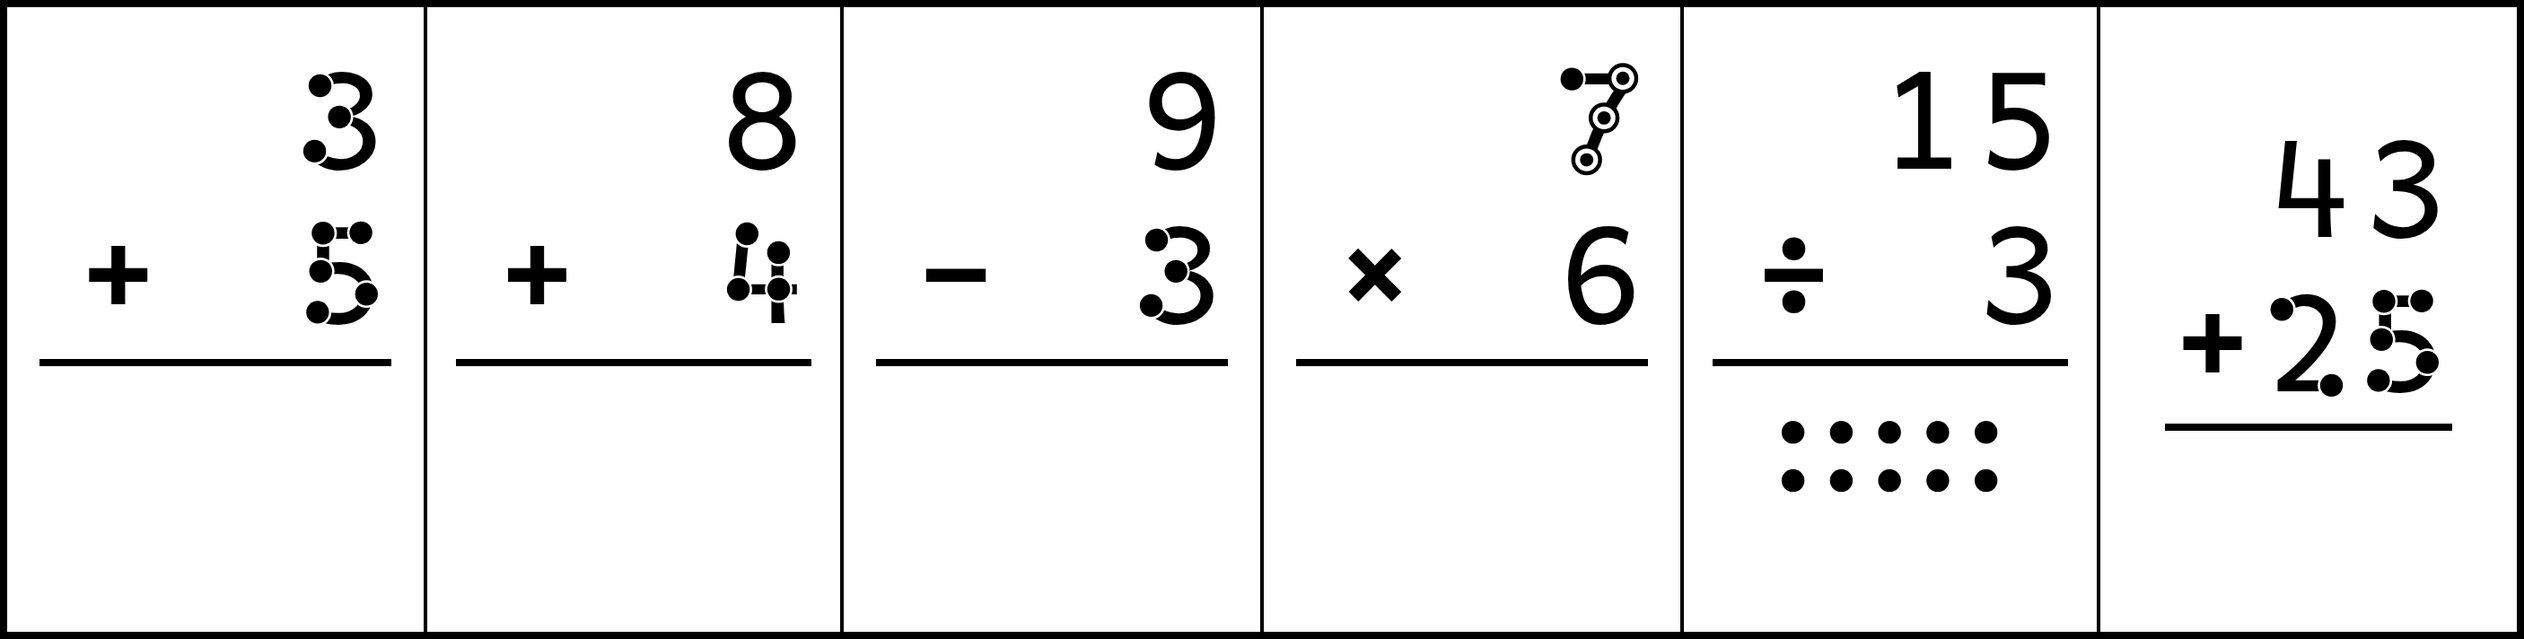
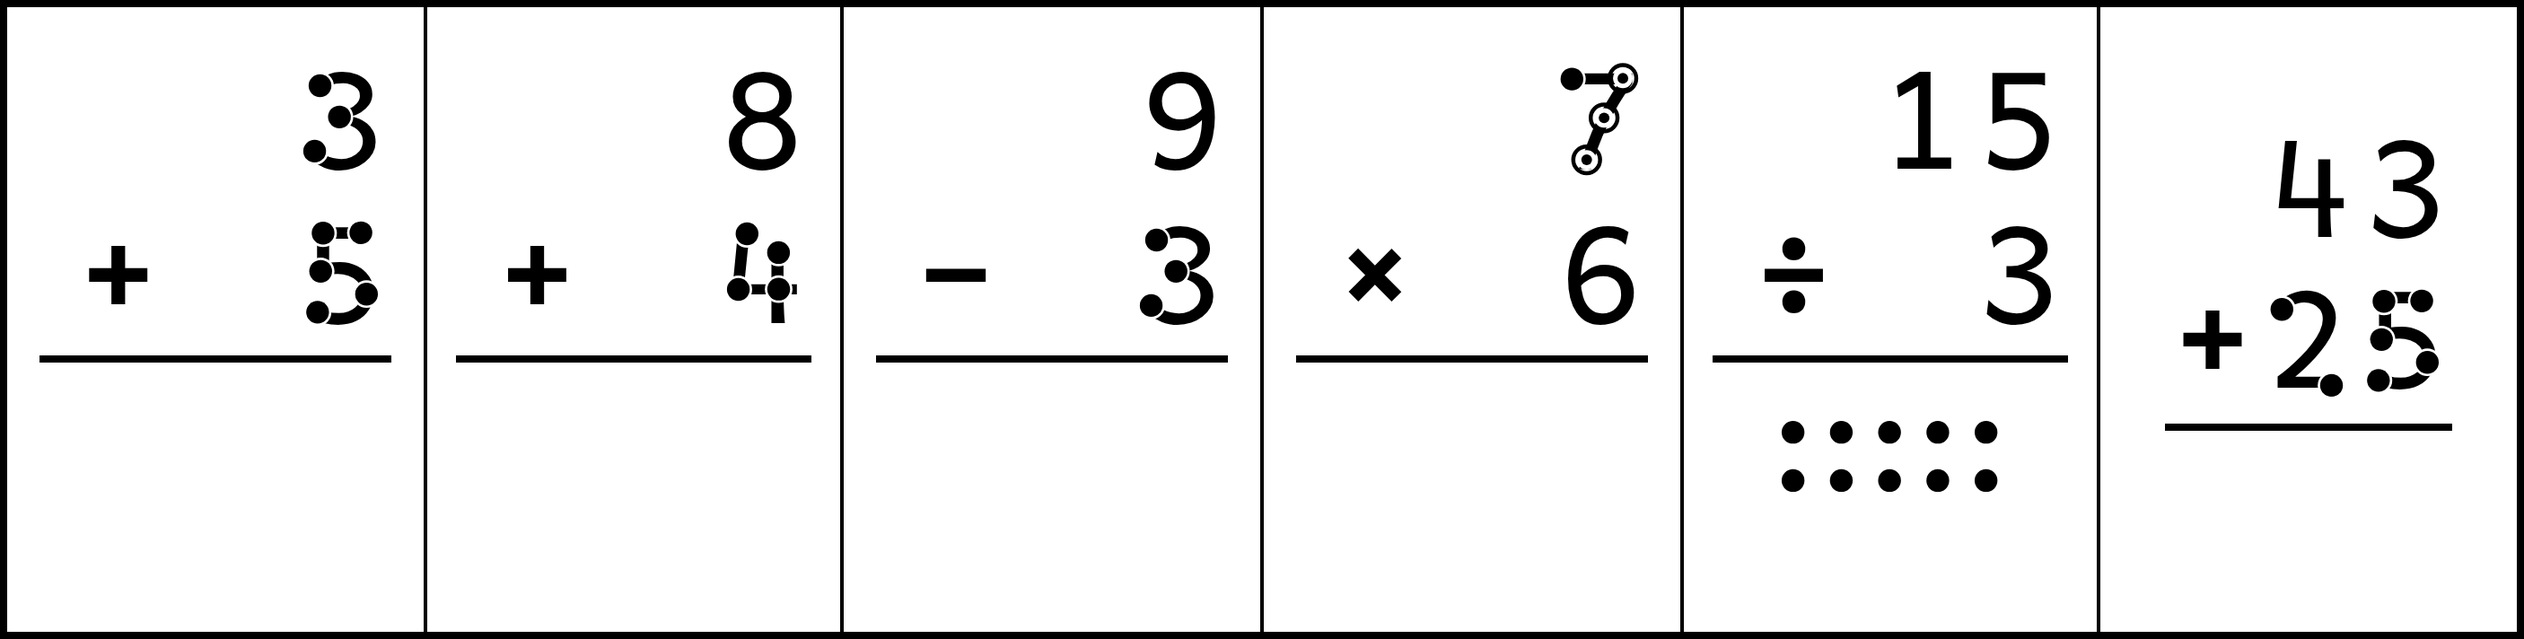
S1 touch dots: apply owner approval rulings (open rings, keyline kept, force L)
- touchdots.js: ring default 'open' (stroke shows through); centre dot gets its own keyline
  (>= 0.26 mm floor, stops 0.012 em short of the ring line); M centre dot 0.10 -> 0.08 em so
  the open ring meets the photocopy floors; minimum-size notes now say force L, not the tile.
- ws-touchdots gate: new PHOTOCOPY (no blob) check for every double, both weights, 24/28 pt;
  integer screenshot clips so device pixels map exactly to em.
- specimen: open rings as the ruling, M row shows the 22 pt stack switched to L; PNGs re-rendered.
- SUPPORTS.md S1: approval rulings 9-11, allocator force-L rule, About-page line text.

Claude-Session: https://claude.ai/code/session_01BnHmN8pgHKrPp3MQGgWUWY

diff --git a/design/specimens/touch-dots.html b/design/specimens/touch-dots.html
@@ -45,7 +45,7 @@
   </filter>
 </svg>
 
-<h1>Touch dots · S1 specimen (for owner approval)</h1>
+<h1>Touch dots · S1 specimen (approved 2026-09-25, with the owner's rulings applied)</h1>
 <p class="note">MathQuest's own counting dots, fitted to the default Andika digits with the open 4 (cv04) and nothing else (TY-4).
 1 to 5 carry single dots. 6 to 9 carry double dots: a solid dot inside an open ring, touched and counted twice, doubles first. 0 has none.
 The teacher's word is <b>Touch dots</b> (default) or <b>Count dots</b>. Positions are measured in the browser (<code>ws-touchdots-fit</code>)
@@ -59,14 +59,15 @@ and held on the strokes by the gate (<code>ws-touchdots</code>). Nothing here is
 Three sizes, each with and without a thin white keyline. The second line of each panel is the same digits through a simulated poor photocopy
 (toner spread about 0.12 mm, darkened): a double must still show its white gap and its centre dot.</p>
 <div class="variants" id="variants"></div>
-<p class="note" style="margin-top:12px">Doubles: a <b>knocked-out</b> ring filled white (proposed: the gap and the centre dot read cleanly, and still do after a copy) against an
-<b>open</b> ring drawn over the stroke (the numeral stays a little more whole, but after a copy the stroke fills the gap and a double reads as one blob). 28 pt, size M; second line = simulated photocopy.</p>
+<p class="note" style="margin-top:12px">Doubles. <b>Owner ruling: open rings</b>, drawn over the stroke so the numeral's stroke runs into the ring and a 7 or 9 stays whole.
+The centre dot has its own white keyline (at least 0.26 mm) and the gap keeps the photocopy floor, so after a copy the double is still a ring round a dot, not a blob
+(gate: <code>ws-touchdots</code> PHOTOCOPY). The knocked-out ring (filled white) is shown for comparison. 28 pt, size M; second line = simulated photocopy.</p>
 <div class="variants" id="rings" style="grid-template-columns:repeat(2,1fr)"></div>
 
 <h2>3 · In real fact cells (kit <code>fact()</code> and <code>stack()</code>, black and white)</h2>
 <p class="note">Cell sizes follow the kit's fact ladder: <b>L</b> = 5 columns, 28 pt; <b>M</b> = 6 columns, 24 pt; <b>S</b> = 10 columns, 16 pt.
-Touch dots need 24 pt or more on paper, so the <b>S</b> row falls back to the existing cue (dot tile for + and −, skip strip for × and ÷). Column stacks print at the
-preset's digit size (L 28 pt, M 22 pt), so a stack with touch dots needs L.</p>
+Touch dots need 24 pt or more on paper. <b>Owner ruling:</b> when touch dots are on and an item's digits would fall under 24 pt, that item <b>switches to size L</b>
+(never the dot tile). So at M the column stack (22 pt) prints at L's 28 pt, as shown; at S every touch-dot item prints at L.</p>
 <div id="facts"></div>
 
 <h2>4 · On screen: practice card at 1280 px and 390 px</h2>
@@ -85,7 +86,7 @@ Keyboard: Tab to a number, Space counts the next dot in order. Below, at 390 px:
 <script type="module">
 import {
   touchDotsSVG, touchTallySVG, TOUCH_DOT_SIZES, TOUCH_DOT_DEFAULT, touchDotsFits,
-  fact, stack, factCue,
+  fact, stack,
 } from '../../js/modules/sheet/index.js';
 
 const PX_PT = 0.75;
@@ -135,10 +136,10 @@ function dotSpan(span, o = {}) {
 // 2b · open vs knocked-out rings
 {
   const host = document.getElementById('rings');
-  for (const ring of ['knockout', 'open']) {
+  for (const ring of ['open', 'knockout']) {
     const v = document.createElement('div');
     v.className = 'variant';
-    v.innerHTML = `<h3>${ring === 'open' ? 'Open ring over the stroke' : 'Knocked-out ring, filled white (proposed)'}</h3>`
+    v.innerHTML = `<h3>${ring === 'open' ? 'Open ring over the stroke (owner ruling)' : 'Knocked-out ring, filled white (not used)'}</h3>`
       + `<div class="digits" style="font-size:28pt">${[...'6789'].map((c) => `<span>${c}</span>`).join('')}</div>`
       + `<div class="digits pc" style="font-size:28pt">${[...'6789'].map((c) => `<span>${c}</span>`).join('')}</div>`;
     host.appendChild(v);
@@ -157,22 +158,22 @@ function dotSpan(span, o = {}) {
     { a: 15, b: 3, op: '÷', dots: 'tally', cap: 'Count by 3 on the row: 3, 6, 9, 12, 15. Count the dots you touched.' },
     { a: 43, b: 25, op: '+', dots: 'stack', cap: 'Column by column: ones first, touch the dots on 5, then on 2.' },
   ];
-  const FALLBACK = { '+': 'tile', '−': 'tile', '×': 'skip', '÷': 'skip' };
-  for (const [size, pt] of [['L', 28], ['M', 24], ['S', 16]]) {
+  for (const [size, pt] of [['L', 28], ['M', 24]]) {
     const hdr = document.createElement('div');
     hdr.className = 'sizehdr';
-    hdr.textContent = `${size} · facts at ${pt} pt${touchDotsFits(pt) ? '' : ' — below 24 pt: no touch dots, the existing cue instead'}`;
+    hdr.textContent = size === 'L' ? 'L · facts at 28 pt' : 'M · facts at 24 pt; the column stack would print at 22 pt, so it switches to L (28 pt)';
     host.appendChild(hdr);
     const sheet = document.createElement('div');
     sheet.className = `ws-sheet ws-${size} ws-ican sheetbox facts`;
     const cells = ITEMS.map((it) => {
       if (it.dots === 'stack') {
-        return `<div class="ws-cell stackcell">${stack(it.a, it.b, it.op, { answer: 'open' })}</div>`;
+        // owner ruling: touch dots force L for an item whose digits would fall under 24 pt
+        const force = size !== 'L';
+        return `<div class="ws-cell stackcell${force ? ' ws-L' : ''}">${stack(it.a, it.b, it.op, { answer: 'open' })}</div>`;
       }
       const f = fact(it.a, it.b, it.op, { pt });
       let extra = '';
-      if (!touchDotsFits(pt)) extra = `<div class="ws-factcue" style="margin-top:3mm">${factCue({ cue: FALLBACK[it.op], a: it.a, b: it.b, op: it.op })}</div>`;
-      else if (it.dots === 'tally') extra = `<div class="tallyhost" style="font-size:${pt}pt;margin-top:3mm">${touchTallySVG(10, { em: pt, unit: 'pt' })}</div>`;
+      if (it.dots === 'tally') extra = `<div class="tallyhost" style="font-size:${pt}pt;margin-top:3mm">${touchTallySVG(10, { em: pt, unit: 'pt' })}</div>`;
       return `<div class="ws-cell ${f.cls}" style="${f.style}">${f.html}${extra}</div>`;
     });
     sheet.innerHTML = `<div class="ws-grid">${cells.join('')}</div>`;
@@ -190,7 +191,7 @@ function dotSpan(span, o = {}) {
         const t = Number(getComputedStyle(st).getPropertyValue('--t')) || 3;
         const spans = [...st.children].filter((c) => c.tagName === 'SPAN' && !c.classList.contains('gap') && !c.classList.contains('rule'));
         const bottom = spans.slice(t, 2 * t); // the operator row
-        if (size === 'L') bottom.forEach((s) => { if (!s.classList.contains('op')) dotSpan(s); });
+        bottom.forEach((s) => { if (!s.classList.contains('op')) dotSpan(s); });
         return;
       }
       const f = cell.querySelector('.ws-fact');

diff --git a/js/modules/sheet/touchdots.js b/js/modules/sheet/touchdots.js
@@ -104,21 +104,26 @@ export function touchDotOrder(d) {
  *   ring   outer diameter of a double's ring
  *   inner  a double's solid centre dot
  *   rw     ring stroke width
- *   halo   white keyline round a single dot (0 = none); a double's ring needs none
+ *   halo   white keyline round a single dot (0 = none)
+ *   ck     white keyline round a double's centre dot (open rings: it parts the dot from the
+ *          stroke that runs through the ring)
  * A double's ring gap (between centre dot and ring) = ring/2 - rw - inner/2.
  */
 export const TOUCH_DOT_SIZES = Object.freeze({
-    S: Object.freeze({ dot: 0.15, ring: 0.21, inner: 0.09, rw: 0.028, halo: 0.018 }),
-    M: Object.freeze({ dot: 0.17, ring: 0.23, inner: 0.10, rw: 0.03, halo: 0.018 }),
-    L: Object.freeze({ dot: 0.19, ring: 0.25, inner: 0.11, rw: 0.032, halo: 0.018 }),
+    S: Object.freeze({ dot: 0.15, ring: 0.21, inner: 0.07, rw: 0.028, halo: 0.018, ck: 0.032 }),
+    M: Object.freeze({ dot: 0.17, ring: 0.23, inner: 0.08, rw: 0.03, halo: 0.018, ck: 0.034 }),
+    L: Object.freeze({ dot: 0.19, ring: 0.25, inner: 0.09, rw: 0.032, halo: 0.018, ck: 0.036 }),
 });
 /** The chosen size (set from the specimen evidence; design/SUPPORTS.md §S1). */
 export const TOUCH_DOT_DEFAULT = 'M';
 
 /** Physical floors (mm) that keep a mark legible after a photocopy, whatever the em. */
-export const TOUCH_DOT_FLOOR_MM = Object.freeze({ gap: 0.3, rw: 0.25, halo: 0.15 });
+export const TOUCH_DOT_FLOOR_MM = Object.freeze({ gap: 0.3, rw: 0.25, halo: 0.15, ck: 0.26 });
 
-/** The minimum digit size that may carry touch dots. Below it the caller uses the dot tile. */
+/**
+ * The minimum digit size that may carry touch dots. Owner ruling 2026-09-25: an item with touch
+ * dots whose digits would fall below it is laid out at size L (28 pt) instead; never the dot tile.
+ */
 export const TOUCH_DOT_MIN = Object.freeze({ pt: 24, px: 40 });
 
 const PT_MM = 25.4 / 72;
@@ -126,7 +131,8 @@ const PX_MM = 25.4 / 96;
 
 /**
  * Can a digit of this size carry touch dots? `unit` is 'pt' (paper) or 'px' (screen).
- * Below 24 pt / 40 px the dots would be too small to touch and count: use the dot tile instead.
+ * Below 24 pt / 40 px the dots would be too small to touch and count: the item switches to size L
+ * (paper) or draws its digits at >= 40 px (screen) - see design/SUPPORTS.md §S1.6.
  */
 export function touchDotsFits(size, unit = 'pt') {
     const n = Number(size);
@@ -152,6 +158,9 @@ export function touchDotGeometry({ em = 28, unit = 'pt', size = TOUCH_DOT_DEFAUL
     return {
         dotR: s.dot / 2, innerR: s.inner / 2, ringR, rw, gap,
         halo: halo ? Math.max(s.halo, f(TOUCH_DOT_FLOOR_MM.halo)) : 0,
+        // the centre dot's keyline: >= 0.26 mm so a copy cannot fuse the dot to the stroke, and
+        // always short of the ring line by 0.012 em, so the stroke visibly runs into the ring
+        ck: Math.min(Math.max(s.ck, f(TOUCH_DOT_FLOOR_MM.ck)), gap - 0.012),
     };
 }
 
@@ -173,7 +182,7 @@ const GREY = '#949494'; // INK-1: the sheet's one grey
  * @param {boolean} [o.photocopy]    photocopy-safe: no grey fills, wider ring gaps
  * @param {'S'|'M'|'L'} [o.size]     mark size (TOUCH_DOT_SIZES)
  * @param {boolean} [o.halo=true]    white keyline round every solid dot
- * @param {'knockout'|'open'} [o.ring='knockout']  a double's ring filled white, or open over the stroke
+ * @param {'open'|'knockout'} [o.ring='open']  a double's ring open over the stroke (owner ruling), or filled white
  * @param {number[]} [o.counted]     screen: per-mark touches already made (0, 1 or 2); a touched
  *                                   part is drawn in the one grey
  * @param {boolean} [o.tappable]     screen: tag each mark with data-td-mark for a tap handler
@@ -193,11 +202,11 @@ export function touchDotsMarks(d, o = {}) {
         const tag = o.tappable ? ` data-td-mark="${i}"` : '';
         const parts = [];
         if (p.double) {
-            // A ring round a solid centre dot. By default ('knockout') the ring is a white disc
-            // with an ink edge: it knocks the glyph stroke out of the gap, so the gap and the centre
-            // dot read cleanly and survive a photocopy (specimen §2). 'open' draws the ring over the
-            // stroke instead (the stroke runs through the gap; the centre dot takes a keyline):
-            // the numeral stays more whole, but after a copy a double looks like a single blob.
+            // A ring round a solid centre dot. OWNER RULING 2026-09-25: the ring is OPEN - drawn
+            // over the stroke, so the numeral's stroke shows through it and a 7 or 9 stays whole.
+            // The centre dot carries its own white keyline (ck) so it never fuses with the stroke,
+            // and the gap either side of the stroke keeps the photocopy floor (gate: no blob).
+            // 'knockout' (a white-filled ring) remains as an option.
             // Screen: a touched part turns the one grey (a touch still to make stays black). The
             // first touch greys the centre dot, the second greys the ring; nothing grows.
             const ringInk = n >= 2 ? GREY : INK, dotInk = n >= 1 ? GREY : INK;
@@ -205,9 +214,9 @@ export function touchDotsMarks(d, o = {}) {
                 parts.push(`<circle cx="${cx}" cy="${cy}" r="${f3(g.ringR - g.rw / 2)}" fill="#fff" stroke="#000" stroke-width="${f3(g.rw * 0.6)}" stroke-dasharray="${f3(g.rw * 1.2)} ${f3(g.rw)}"/>`);
                 parts.push(`<circle cx="${cx}" cy="${cy}" r="${f3(g.innerR - g.rw * 0.3)}" fill="#fff" stroke="#000" stroke-width="${f3(g.rw * 0.6)}"/>`);
             } else {
-                const knock = o.ring !== 'open';
+                const knock = o.ring === 'knockout';
                 parts.push(`<circle cx="${cx}" cy="${cy}" r="${f3(g.ringR - g.rw / 2)}" fill="${knock ? '#fff' : 'none'}" stroke="${ringInk}" stroke-width="${f3(g.rw)}"/>`);
-                if (!knock && g.halo) parts.push(`<circle cx="${cx}" cy="${cy}" r="${f3(g.innerR + g.halo)}" fill="#fff"/>`);
+                if (!knock) parts.push(`<circle cx="${cx}" cy="${cy}" r="${f3(g.innerR + g.ck)}" fill="#fff"/>`);
                 parts.push(`<circle cx="${cx}" cy="${cy}" r="${f3(g.innerR)}" fill="${dotInk}"/>`);
             }
         } else {

diff --git a/design/SUPPORTS.md b/design/SUPPORTS.md
@@ -1,8 +1,8 @@
 # SUPPORTS — the supports program (DRAFT)
 
-Status: **draft for owner approval.** Nothing here is wired into a skill or an option yet.
-`WORKSHEET_DESIGN_STANDARD.md` is not amended until the owner approves the S1 specimen; the
-amendments it will need are listed in §S1.12.
+Status: **S1 approved by the owner (2026-09-25), with the rulings in §S1.1 (9–11) applied.**
+Nothing here is wired into a skill or an option yet (S2 / S3). `WORKSHEET_DESIGN_STANDARD.md` is
+not amended yet; the amendments it needs are listed in §S1.12.
 
 ---
 
@@ -27,9 +27,22 @@ These supersede the standards where they differ.
    the printed coin values) and word problems. (Later elements; not in S1.)
 8. **Name.** The teacher picks in Settings: **"Touch dots"** (default) or **"Count dots"**. The
    word is used on every teacher screen and in pupil instructions; search also finds "touch
-   points". The commercial program's trademarked names are never used in code, comments, docs or
-   UI; the code says `touchdots`. The About page will carry a one-line non-affiliation notice
-   (wording at S3).
+   points". The commercial program's trademarked names are never used in code, comments or UI
+   strings built from code; the code says `touchdots`.
+   **About-page line (owner ruling, the only place the name appears):** "not affiliated with
+   TouchMath". It is recorded here only; the S3 lane adds it to the About page text.
+
+**Approval rulings (2026-09-25, on the S1 specimen):**
+
+9. **Open rings on double dots.** The ring is drawn over the numeral's stroke, so the stroke shows
+   through and a 7 or 9 reads clearly. It must survive photocopying: the ring-line and gap floors
+   hold, and a double never becomes a blob (gate: PHOTOCOPY, §S1.10). `ring: 'open'` is the
+   default; the knocked-out ring stays only as an option.
+10. **Keep the white keyline on single dots.**
+11. **Touch dots force size L.** When touch dots are on and an item's digits would fall under
+    24 pt (for example column stacks at M, 22 pt, or anything at S), **that item switches to size
+    L** (28 pt). It never falls back to the dot tile. This is a rule for the allocator lane (S2):
+    an item that carries touch dots is laid out at L whatever the sheet's preset.
 
 ### S1.2 The convention
 
@@ -73,18 +86,22 @@ Andika's stroke measures 0.085–0.095 em Regular and 0.115–0.135 em Bold. SF-
 stroke itself, so it disappears. Three sizes were built and compared (specimen §2) and run through
 the gate:
 
-| Size | Single dot | Ring (outer) | Centre dot | Ring line | Gate |
-|---|---|---|---|---|---|
-| S | 0.15 em | 0.21 em | 0.09 em | 0.028 em | passes |
-| **M (chosen)** | **0.17 em** | **0.23 em** | **0.10 em** | **0.03 em** | **passes** |
-| L | 0.19 em | 0.25 em | 0.11 em | 0.032 em | **fails** the spacing rule on 3, 4, 5 and 9 |
+| Size | Single dot | Ring (outer) | Centre dot | Centre keyline | Ring line | Gate |
+|---|---|---|---|---|---|---|
+| S | 0.15 em | 0.21 em | 0.07 em | 0.032 em | 0.028 em | fails PHOTOCOPY on 4 Bold doubles at 24 pt (gap white 47–49 %) |
+| **M (chosen)** | **0.17 em** | **0.23 em** | **0.08 em** | **0.033 em** | **0.03 em** | **passes** |
+| L | 0.19 em | 0.25 em | 0.09 em | 0.036 em | 0.032 em | **fails** the spacing rule on 3, 4, 5 and 9 |
 
-**M is the largest size that passes.** At 24 pt (em 8.47 mm): single dot 1.44 mm, ring 1.95 mm,
-centre dot 0.85 mm, ring gap 0.30 mm, ring line 0.25 mm. At 28 pt: 1.68 / 2.27 / 0.99 / 0.35 /
-0.30 mm.
+**M is the only size that passes the whole gate** (S's smaller open rings blob in Bold at 24 pt; L's marks crowd). At 24 pt (em 8.47 mm): single dot 1.44 mm, ring 1.95 mm,
+centre dot 0.68 mm, centre keyline 0.28 mm, ring gap 0.38 mm, ring line 0.25 mm; at 28 pt
+(em 9.88 mm): 1.68 / 2.27 / 0.79 / 0.33 / 0.44 / 0.30 mm. The open ring (ruling 9) needed a
+smaller centre dot than the first draft (0.10 → 0.08 em) so that the centre keyline could reach
+the photocopy floor while the stroke still visibly runs into the ring (the keyline stops 0.012 em
+short of the ring line).
 
 **Photocopy floors** (`TOUCH_DOT_FLOOR_MM`): ring gap ≥ 0.30 mm (× 1.25 in photocopy mode), ring
-line ≥ 0.25 mm, keyline ≥ 0.15 mm. Floors grow the ring outward; the centre dot never shrinks.
+line ≥ 0.25 mm, single-dot keyline ≥ 0.15 mm, centre-dot keyline ≥ 0.26 mm. Floors grow the ring
+outward; the centre dot never shrinks.
 
 ### S1.5 Ink and keyline
 
@@ -93,11 +110,13 @@ line ≥ 0.25 mm, keyline ≥ 0.15 mm. Floors grow the ring outward; the centre 
   and after a simulated photocopy it is gone; with it the dot reads as a separate round mark and
   survives as a clear bump. Cost: the keyline nicks the stroke round each dot (most visible on the
   open 4's crossbar). Accepted.
-- **Doubles are a knocked-out ring:** a white disc with a black ring line and a solid centre dot.
-  It knocks the stroke out of the gap, so the gap and the centre dot read cleanly and survive a
-  copy. The alternative (an **open** ring drawn over the stroke, `ring: 'open'`) keeps the numeral a
-  little more whole, but after a copy the stroke fills the gap and the double reads as one blob.
-  Knocked-out is the default. Cost: three rings cover much of a 7's diagonal.
+- **Doubles are an OPEN ring** (owner ruling 9): a black ring line drawn over the stroke, the
+  stroke running on into the ring, and a solid centre dot with its own white keyline so it never
+  fuses with the stroke. Either side of the stroke the gap between dot and ring stays white. After
+  the simulated poor copy every double at 24 and 28 pt, both weights, still shows its full ring
+  line, its solid centre dot and white round the gap (gate PHOTOCOPY). The knocked-out ring (a
+  white-filled ring, `ring: 'knockout'`) is kept only as an option: it hid most of a 7's
+  diagonal.
 - **Trace ink** (a faded step): the marks in the sheet's one grey; with **photocopy-safe** on,
   dotted outlines instead of grey (INK rules for traces).
 - Black, white and the one grey only. No colour, on paper or in the screen cell.
@@ -105,12 +124,17 @@ line ≥ 0.25 mm, keyline ≥ 0.15 mm. Floors grow the ring outward; the centre 
 ### S1.6 Minimum size and fallback
 
 - Touch dots need a digit of **≥ 24 pt on paper** and **≥ 40 px on screen**
-  (`touchDotsFits(size, 'pt' | 'px')`). Below that, the item **falls back to the existing cue**:
-  the dot tile for + and −, the skip strip for × and ÷ (never tiny dots).
-- On the kit's fact ladder that means L (5 columns, 28 pt) and M (6 columns, 24 pt) carry dots;
-  S (10 columns, 16 pt) falls back. Column stacks use the preset digit (L 28 pt, M 22 pt), so a
-  stack with touch dots needs L. (S2 decides whether choosing touch dots forces L or disables the
-  option with its reason.)
+  (`touchDotsFits(size, 'pt' | 'px')`). Never tiny dots.
+- **Owner ruling 11 — force L, never the tile.** When touch dots are on and an item's digits would
+  fall under 24 pt, **that item switches to size L** (28 pt). On the kit's fact ladder, L (5
+  columns, 28 pt) and M (6 columns, 24 pt) facts already qualify; a fact at 7+ columns or at the S
+  preset, and a column stack at M (22 pt) or S (16 pt), are laid out at L instead. **Allocator rule
+  (S2):** `allocateSupports` marks such an item `forceSize: 'L'`, and the layout places it with
+  L's metrics (its own section or row), so the page stays regular; the dot tile is never
+  substituted for touch dots.
+- On screen the practice card draws digits at 40 / 48 / 56 px, which qualifies. A screen host
+  whose digits are under 40 px (the online worksheet's 29 px cell) must draw a touch-dot item at
+  ≥ 40 px, the screen form of the same rule (S3 wires it).
 
 ### S1.7 Where the dots go (per operation)
 
@@ -155,7 +179,7 @@ neighbours keep the no-merge gap (gate). The overlay takes no space and changes 
 | `TOUCH_DOT_SIZES`, `TOUCH_DOT_DEFAULT` | S / M / L, default M |
 | `TOUCH_DOT_MIN`, `touchDotsFits(size, unit)` | 24 pt / 40 px |
 | `touchDotGeometry(opts)` | radii in em after the photocopy floors |
-| `touchDotsSVG(d, {em, unit, weight, ink, photocopy, size, halo, ring, counted, tappable})` | the overlay: absolute SVG, 1 × 1.15 em in CSS em, centred on the host span, no layout |
+| `touchDotsSVG(d, {em, unit, weight, ink, photocopy, size, halo, ring = 'open', counted, tappable})` | the overlay: absolute SVG, 1 × 1.15 em in CSS em, centred on the host span, no layout |
 | `touchDotsMarks(d, opts)` | the marks alone (em coordinates) for an SVG host (clock, coin) |
 | `touchDotsDigitHTML(ch, opts)` | a span's inner HTML: digit + overlay |
 | `touchDotNearest(d, x, y, counted)` | the mark a tap counts |
@@ -182,6 +206,10 @@ to host it (S3 wires it).
   - **count:** the dots make the digit, doubles first;
   - **neighbours:** every pair of digits in 0.72 em tracks, geometry at every size and pixels at the
     smallest sizes;
+  - **photocopy (no blob):** every double of 6–9, both weights, at 24 and 28 pt, drawn with its
+    numeral and put through the simulated poor copy (Gaussian blur σ 0.12 mm, anything under 60 %
+    white prints black), keeps ≥ 85 % of its ring line dark, a solid centre dot, and ≥ 50 % white
+    round the middle of the gap;
   - **layout:** a kit fact and stack have identical boxes with and without the overlay;
   - **screen:** the specimen card's targets are ≥ 44 × 44 px at 390 and 1280, taps count, extra
     taps do nothing, "Start again" clears, no horizontal scroll.
@@ -190,13 +218,11 @@ to host it (S3 wires it).
   `node design/specimens/render-touch-dots.cjs` to `touch-dots.png`, `touch-dots-digits.png` and
   `touch-dots-facts-L.png`.
 
-### S1.11 Open questions for the owner
+### S1.11 Owner decisions (resolved 2026-09-25)
 
-1. The keyline nicks the stroke round each single dot (visible on the 4). Keep it for photocopy
-   survival (recommended), or drop it for a cleaner numeral?
-2. Knocked-out rings (recommended) or open rings over the stroke (the 7 stays more whole)?
-3. Stacks with touch dots need the L preset (28 pt). Force L when touch dots are on, or disable the
-   option below L with a reason?
+1. Keyline on single dots: **kept** (ruling 10).
+2. Rings: **open** over the stroke, photocopy-safe (ruling 9).
+3. Under 24 pt: **switch the item to L**, never the tile (ruling 11).
 
 ### S1.12 Standard amendments needed after approval (not made yet)
 
